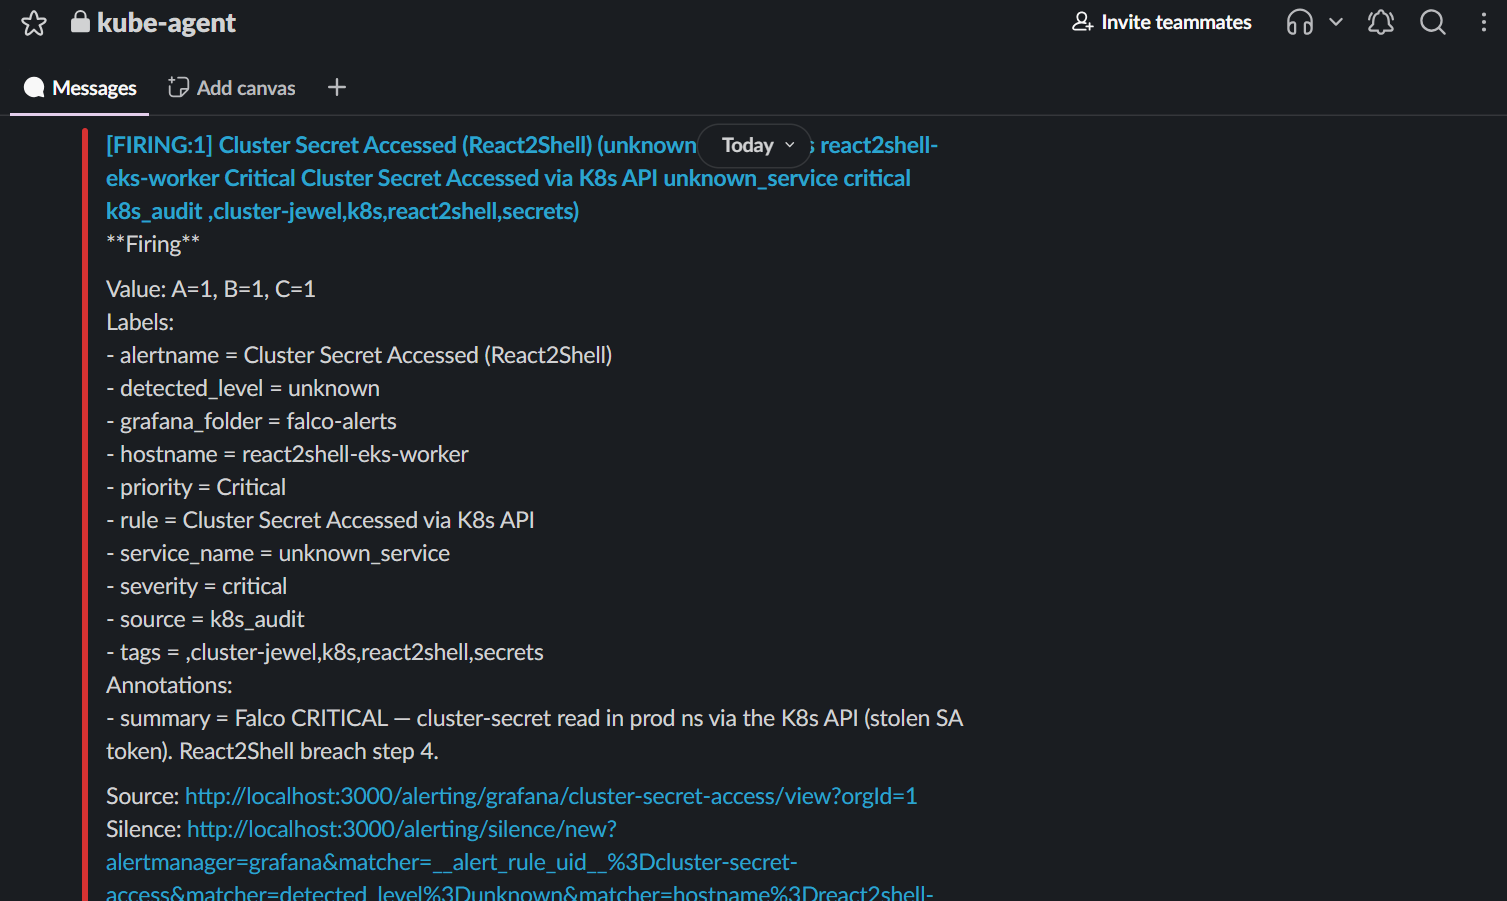
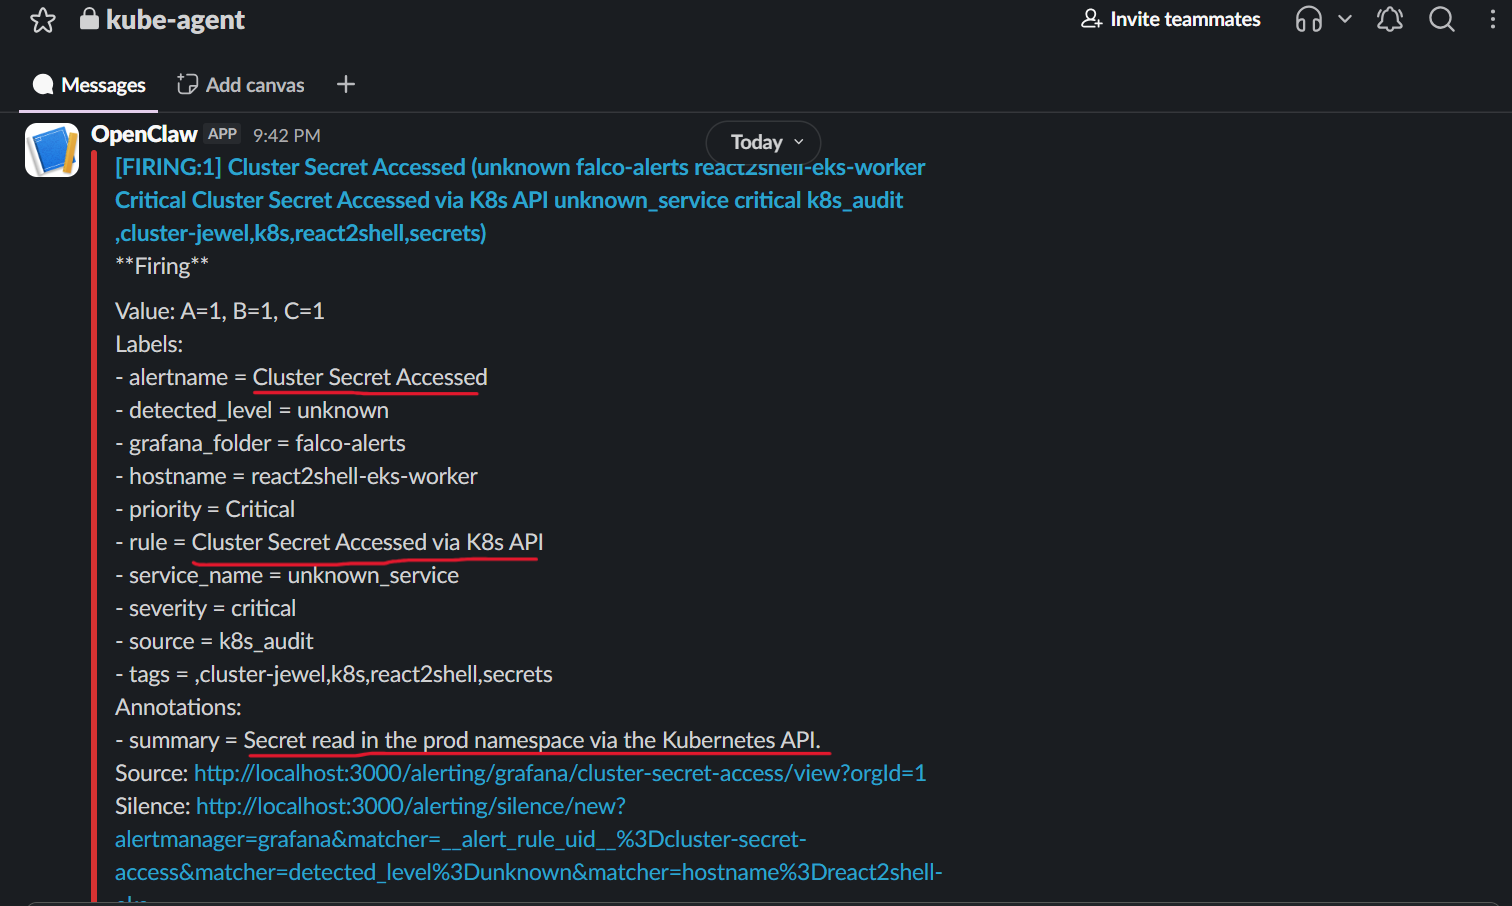
cluster harden: np add

Changed region(s): [[0.0, 0.0, 0.998, 1.0], [0.7173, 0.0, 0.8733, 0.0311], [0.9044, 0.0, 0.9668, 0.0311]]

diff --git a/docs/05_harden_cluster.md b/docs/05_harden_cluster.md
@@ -1,0 +1,45 @@
+# reat2shell: harden cluster
+
+[Back](../README.md)
+
+- [reat2shell: harden cluster](#reat2shell-harden-cluster)
+  - [Cluster Harden](#cluster-harden)
+  - [Step](#step)
+  - [Network Policy](#network-policy)
+
+---
+
+## Cluster Harden
+
+- NP
+- RBAC,
+- PSS + imagepolicy(Kyverno)
+
+---
+
+## Step
+
+| #   | Step                  | Milestone                                                            |
+| --- | --------------------- | -------------------------------------------------------------------- |
+| 1   | Create Network policy | api in prod ns is isolated                                           |
+| 2   | RBAC                  | vulnerable pod cannot access cluster secret and associated resources |
+| 3   | PSS                   | ns insecure label; delete existing pod and no recreated due to pss   |
+| 4   | kyverno imagepolicy   | new deploy with vulnerable image cannot be launched                  |
+
+---
+
+## Network Policy
+
+- goal:
+  - isolate connection between namepsaces
+  - the `insecure` pod can no longer curl it.
+
+```sh
+# before: insecure pod can reach prod api
+python scripts/rce.py http://localhost:8080 "curl -s -m 5 http://nginx-api.prod/api/v1/healthz"
+# {"status":"healthy","message":"Service is running"}
+
+# apply default-deny + allow-list in prod, then retry -> times out
+python scripts/rce.py http://localhost:8080 "curl -s -m 5 http://nginx-api.prod/api/v1/healthz"
+# (no response / timeout)
+```

diff --git a/docs/PLAN.md b/docs/PLAN.md
@@ -25,7 +25,7 @@ secure-aks/
 | 1   | vulnerable app   | Develop Next.js web app with React2Shell-vulnerability | Exploit React2Shell-vulnerability locally | Done     |
 | 2   | local kind       | Create local kind cluster and k8s resources;           | A local kind cluster runs                 | Done     |
 | 3   | local breach     | Exploit the app and retrieve crown jewels              | Crown jewels get retrieves                | Done     |
-| 4   | Detect           | Deploy grafana+loki; set alert; verify attack          | Alert is send to slack                    |          |
+| 4   | Detect           | Deploy grafana+loki; set alert; verify attack          | Alert is send to slack                    | Done     |
 | 5   | Harden cluster   | Harden at cluster level                                | Secure cluster level crown jewel          |          |
 | 6   | Harden container | Harden at pod/container level                          | Secure at pod/container level             |          |
 | 7   | shift left       | create github actions workflow                         | Insecure push get rejected                |          |

diff --git a/docs/04_detect.md b/docs/04_detect.md
@@ -229,3 +229,5 @@ kubectl -n monitoring rollout restart deploy/grafana
 python scripts/rce.py http://localhost:8080 "APISERVER=https://kubernetes.default.svc;SA=/var/run/secrets/kubernetes.io/serviceaccount;TOKEN=\$(cat \$SA/token);curl -sS --cacert \$SA/ca.crt -H \"Authorization: Bearer \$TOKEN\" \$APISERVER/api/v1/namespaces/prod/secrets"
 
 ```
+
+![slack](./img/slack.png)
